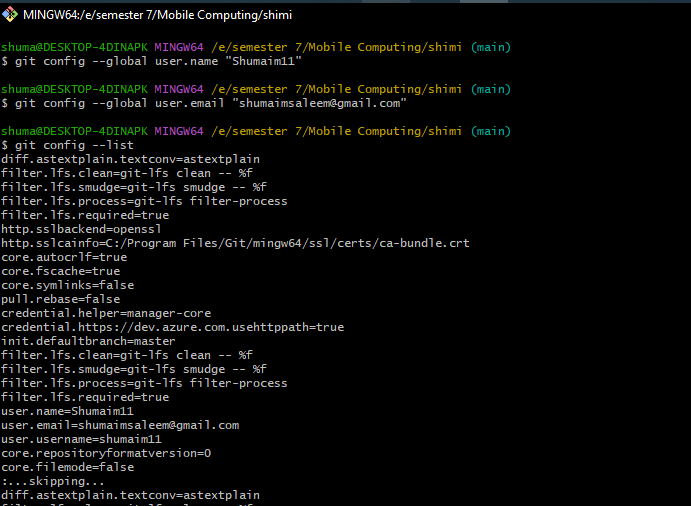
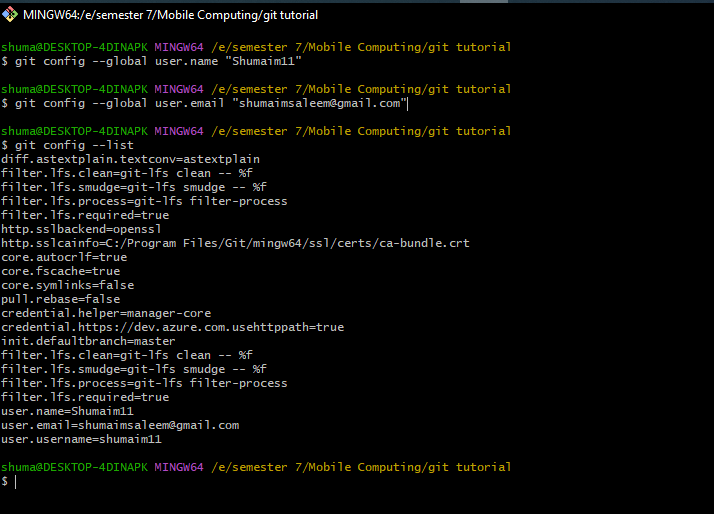
Added the image for current working directory

Changed region(s): [[0.0, 0.0, 0.7294, 1.0], [0.699, 0.0, 0.7294, 0.0296], [0.6382, 0.0, 0.6686, 0.0296]]

diff --git a/index.html b/index.html
@@ -71,6 +71,14 @@
         </div>
         <img class="center mt-40" width="691" height="506" src="assets/images/git%20push%20demo.png" alt="Git Push Command Demo">
         <p class="para">Then, let's check the current working directory:</p>
+        <div class="ml-20 flex flex-col">
+            <code>pwd</code>
+        </div>
+        <img class="center mt-40" width="547" height="63" src="assets/images/pwd.png" alt="pwd">
+
+
+
+
     </div>
 
 </main>
